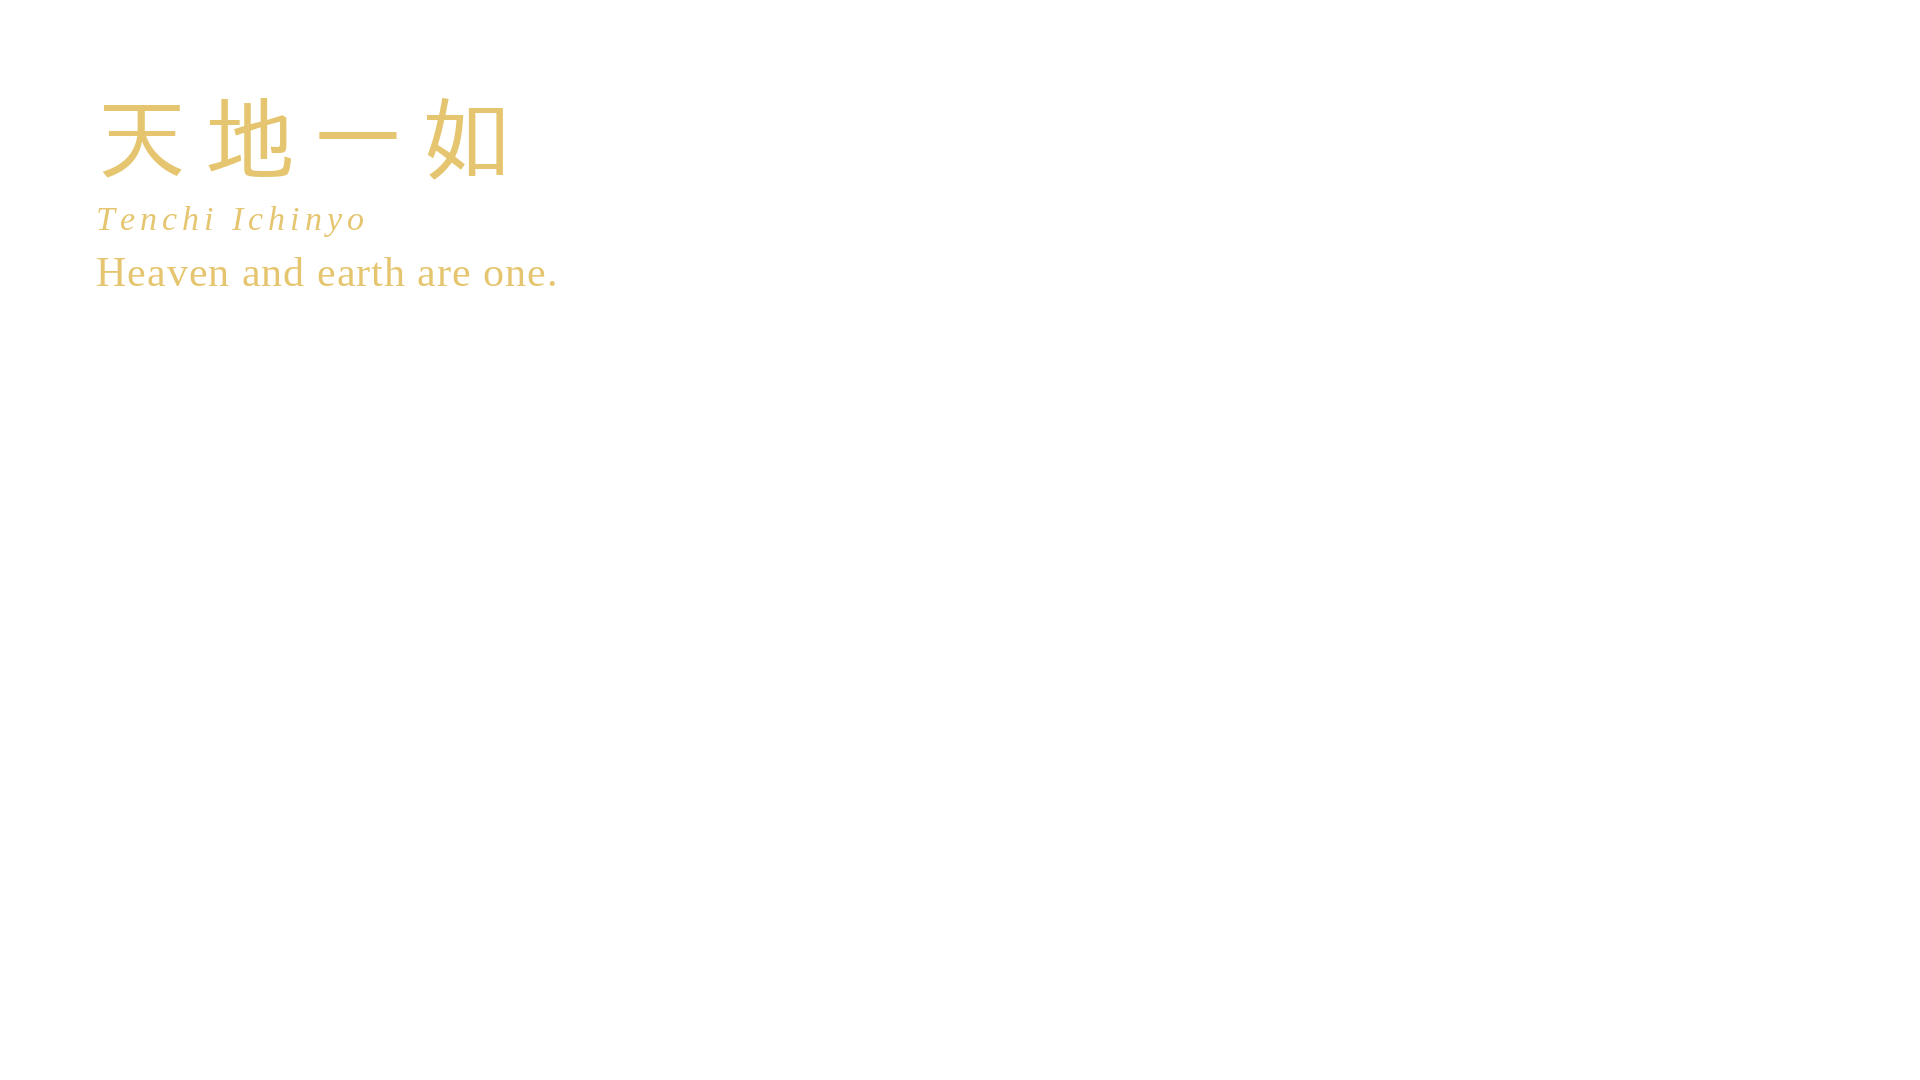
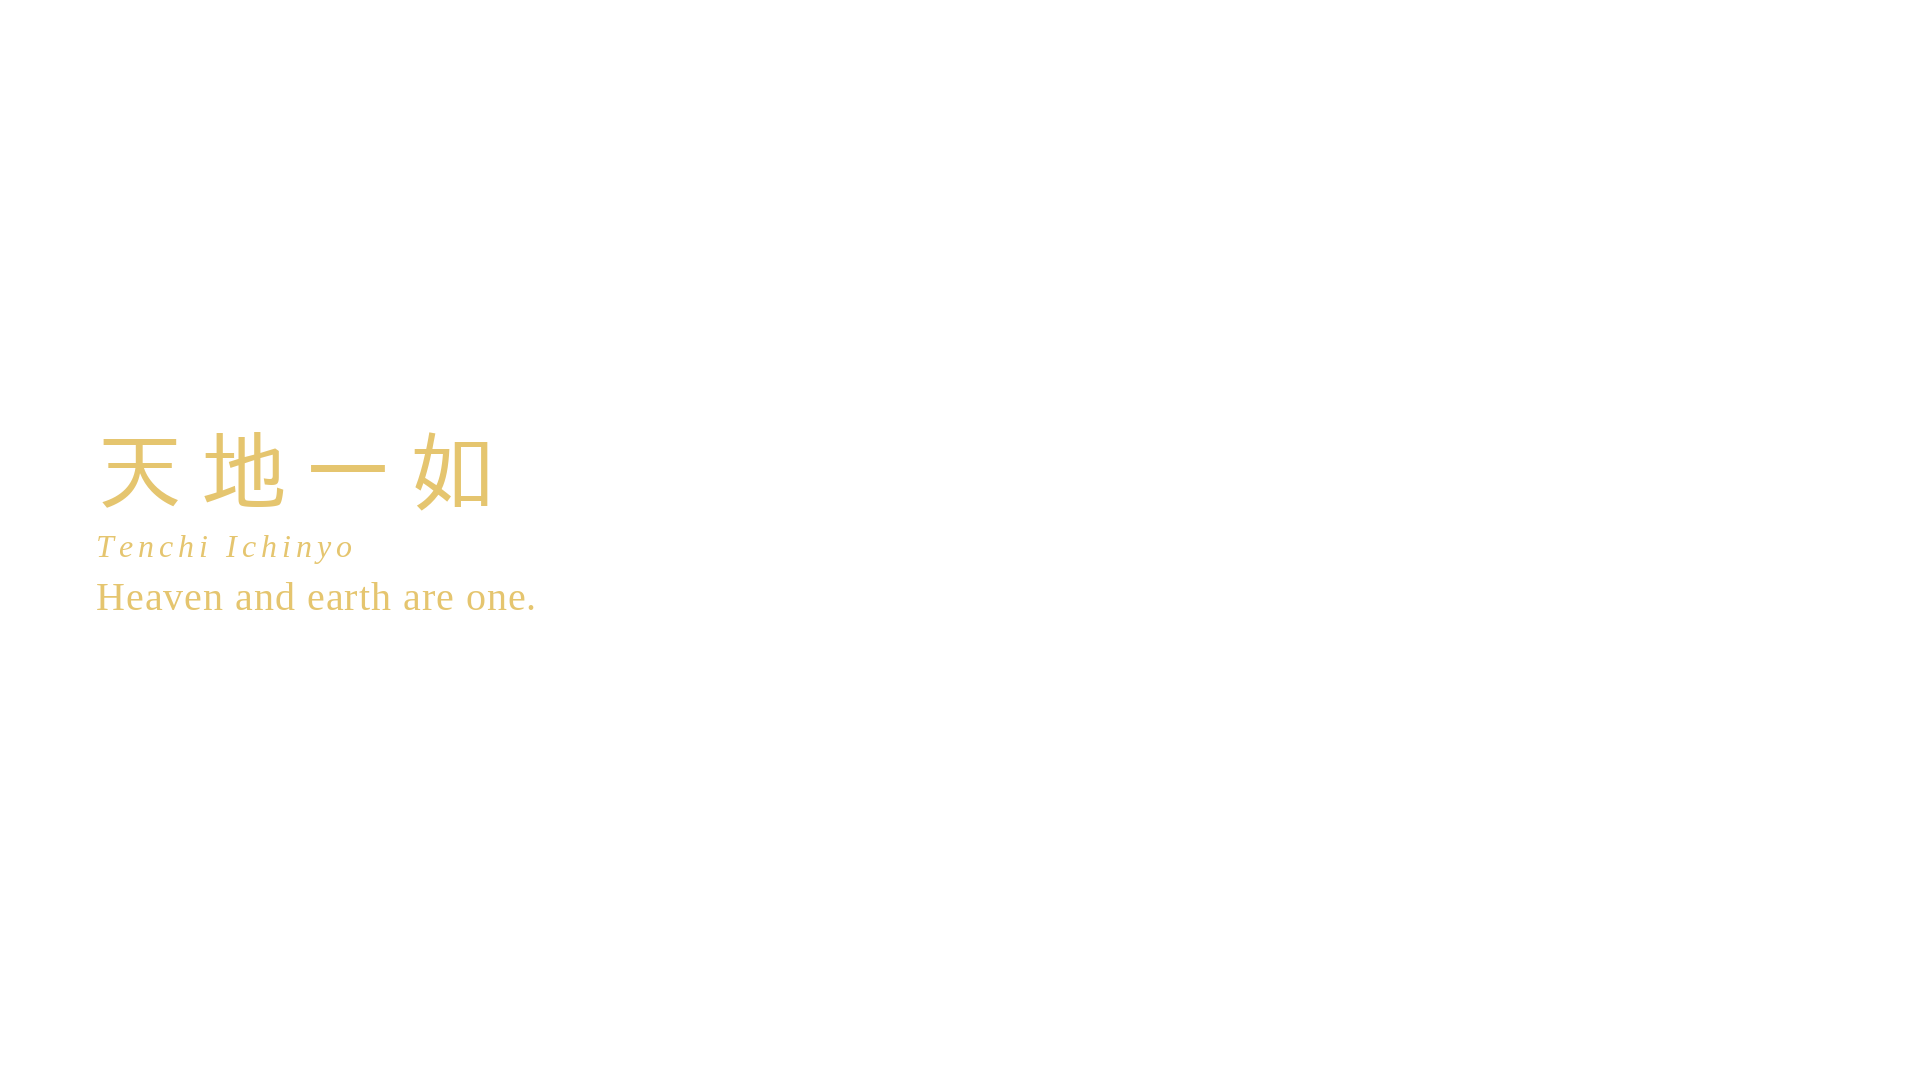
Lock wisdom-intro overlay as a standard element; reposition Tenchi over mist
User: place the gold wisdom text on the left where the mist is (softer
backdrop), and make this kind of intro a standing rule.

- 963 Tenchi Ichinyo overlay repositioned to the left over the valley
  mist (was upper-left over busy stars); asset updated
- CLAUDE.md: locked "Wisdom intro overlay" as a standard on EVERY Healing
  Hour video — real fitting Japanese phrase, transparent PNG for video
  overlay, placed left over a soft/calm zone (mist/haze/dark sky),
  cream-or-gold per color rule, one locked serif, retention-safe timing
  0:03–0:14, delivered into assets/

diff --git a/stillwave/CLAUDE.md b/stillwave/CLAUDE.md
@@ -105,6 +105,17 @@ Continue using the original style for the videos that aren't in the new format y
    - **🔒 Text color rule:** **cream `#F5EAD2` is the DEFAULT (standard).** Use **gold `#E4C46C` ONLY when the title/theme explicitly references gold / God / divine / miracle / sacred** — e.g. `963 Hz Frequency of God`, a "miracle frequency" angle. Gold then echoes the warm stone-lantern flame and the divine theme. Everything else stays cream/white.
    - **🔒 Font rule — ALWAYS ONE FONT.** Every thumbnail, Shorts cover and wisdom overlay across the WHOLE channel uses the **same single elegant thin serif** — never mix fonts. Renders use **Liberation Serif** (the locked render font); the nearest Canva/phone equivalent is **EB Garamond / Cormorant Garamond** (use only this if redoing by hand). One font everywhere = brand recognition. Word = bold weight, the Hz/tag = same font smaller.
 
+### Wisdom intro overlay (LOCKED — standard on EVERY Healing Hour video)
+
+Every Healing Hour video opens with a Japanese-wisdom intro overlay (the signature intro — like 明鏡止水 on the Kyoto video, 天地一如 on Mount Koya). Build it as a **transparent PNG** the editor drops on the finished video:
+
+- **Text:** a real Japanese phrase (yojijukugo idiom or Zen term) that fits THAT scene + the Hz outcome — never generic. Three lines: kanji / romaji / short English gloss.
+- **Placement:** LEFT side, over a **soft/calm zone of the frame** (mist, haze, or dark sky) — not over the busy focal area, not over the subject. Reads better on a quiet backdrop.
+- **Color:** per the text-color rule (cream default, gold for God/divine/gold themes).
+- **Font:** the one locked serif (same as thumbnails).
+- **Timing (retention-safe, Karena #7):** 0:00–0:03 scene + sound only (NO text, no fade from black) → fade in 2s → hold → fade out by ~0:14 → pure atmosphere for the rest.
+- Deliver the transparent PNG into `assets/` so it can be reused/overlaid anytime.
+
 ### Location bank (validated against YouTube recommendation cluster)
 
 | Location | Best Hz fit |
